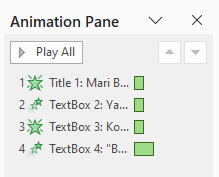
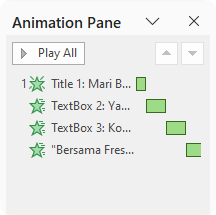
M

diff --git a/materi-powerpoint.html b/materi-powerpoint.html
@@ -3285,35 +3285,7 @@
                             </ul>
                           </li>
                         </ol>
-                        <!-- <div id="sesi4dasar" class="carousel Slide">
-                          <div class="carousel-inner">
-                            <div class="carousel-item active">
-                              <img src="assets/img/SmartBottle/Slide1.PNG" class="d-block w-100" alt="...">
-                            </div>
-                            <div class="carousel-item">
-                              <img src="assets/img/SmartBottle/Slide2.PNG" class="d-block w-100" alt="...">
-                            </div>
-                            <div class="carousel-item">
-                              <img src="assets/img/SmartBottle/Slide3.PNG" class="d-block w-100" alt="...">
-                            </div>
-                            <div class="carousel-item">
-                              <img src="assets/img/SmartBottle/Slide4.PNG" class="d-block w-100" alt="...">
-                            </div>
-                            <div class="carousel-item">
-                              <img src="assets/img/SmartBottle/Slide5.PNG" class="d-block w-100" alt="...">
-                            </div>
-                          </div>
-                          <button class="carousel-control-prev" type="button" data-bs-target="#sesi4dasar"
-                            data-bs-Slide="prev">
-                            <span class="carousel-control-prev-icon" aria-hidden="true"></span>
-                            <span class="visually-hidden">Previous</span>
-                          </button>
-                          <button class="carousel-control-next" type="button" data-bs-target="#sesi4dasar"
-                            data-bs-Slide="next">
-                            <span class="carousel-control-next-icon" aria-hidden="true"></span>
-                            <span class="visually-hidden">Next</span>
-                          </button>
-                        </div> -->
+                        
                         <div class="d-flex justify-content-between align-items-center mb-3">
                           <a class="btn btn-sm btn-outline-secondary"
                             style="--bs-btn-padding-y: .25rem; --bs-btn-padding-x: .5rem; --bs-btn-font-size: .75rem;"
@@ -3775,7 +3747,8 @@
                                       <li>Judul: <strong>Fade</strong>, <i class="bi bi-mouse2"></i> Start On Click</li>
                                       <li>Diagram: <strong>Wipe</strong>, <i class="bi bi-clock-history"></i>
                                         Start After Previous</li>
-                                      <li>Content: <strong>Wipe</strong> → <strong>Effect Options</strong> → <strong>Level One
+                                      <li>Content: <strong>Wipe</strong> → <strong>Effect Options</strong> →
+                                        <strong>Level One
                                           by One</strong>, <i class="bi bi-clock-history"></i>
                                         Start After Previous.
                                         <div class="my-3">
@@ -3792,62 +3765,6 @@
                                 </div><!-- /row -->
                                 <hr>
                               </li>
-
-
-                              <!-- <li>
-                                <strong>Slide 6 — Tim Kami</strong>
-                                <div class="row mt-2">
-                                  <div class="col-md-6">
-                                    <ul class="list-unstyled">
-                                      <li><strong>Layout:</strong> <strong>Title Only</strong></li>
-                                      <li>Judul : <strong>TIM KAMI</strong></li>
-                                      <li>Isi : <br>
-                                        <ul>
-                                          <li><strong>Insert</strong> → <strong>SmartArt</strong> →
-                                            <strong>Hierarchy</strong>
-                                            <div class="my-3">
-                                              <img src="assets/img/insert-smartart-hierarchy.png" alt=""
-                                                class="img-fluid shadow rounded">
-                                            </div>
-                                          </li>
-
-                                          <li><strong>Insert → <strong>Table</strong></strong>
-                                            <div class="my-2 mb-3">
-                                              <img src="assets/img/insert-table-tim-kami.png" alt=""
-                                                class="img-fluid shadow rounded">
-                                            </div>
-                                            <ul>
-                                              <li>CEO: <strong>Andi</strong></li>
-                                              <li>CTO: <strong>Budi</strong></li>
-                                              <li>Marketing: <strong>Sinta</strong></li>
-                                              <li>Finance: <strong>Rina</strong></li>
-                                            </ul>
-                                            <p>Isi data seperti contoh gambar Slide</p>
-                                          </li>
-                                          <li><strong>Animation</strong>:
-                                            <ul>
-                                              <li>Judul: <strong>Fade</strong>, <i class="bi bi-mouse2"></i> Start On Click</li>
-                                              <li>Diagram: <strong>Wipe</strong>, <i class="bi bi-clock-history"></i>
-                                                Start After Previous</li>
-                                              <li>Content: <strong>Wipe</strong> → <strong>Effect Options</strong> → <strong>Level One
-                                          by One</strong>, <i class="bi bi-clock-history"></i>
-                                        Start After Previous.</li>
-                                            </ul>
-                                            <div class="my-3">
-                                              <img src="assets/img/Slide6-animation-pane.png" alt=""
-                                                class="img-fluid shadow rounded">
-                                            </div>
-                                          </li>
-                                        </ul>
-                                      </li>
-                                  </div>
-                                  <div class="col-md-6">
-                                    <img src="assets/img/Business-Pitch-Deck-7-Slide/Slide6.PNG" alt=""
-                                      class="img-fluid shadow rounded">
-                                  </div>
-                                </div>
-                                <hr>
-                              </li> -->
 
                               <li>
                                 <strong>Slide 7 — Call to Action</strong>
@@ -3878,29 +3795,37 @@
                                             terpercaya."</li>
                                         </ul>
                                       </li>
-                                      <li><strong>Animation</strong>:
-                                        <ul>
-                                          <li>Judul: <strong>Fade</strong>, <i class="bi bi-clock-history"></i> Start
-                                            After Previous</li>
-                                          <li>TextBox: <strong>Zoom</strong>, <i class="bi bi-clock-history"></i> Start
-                                            After Previous</li>
-                                          <li>TextBox: <strong>Fade</strong>, <i class="bi bi-clock-history"></i> Start
-                                            After Previous</li>
-                                          <li>TextBox: <strong>Float In</strong>, <i class="bi bi-clock-history"></i>
-                                            Start After Previous</li>
-                                        </ul>
-                                        <div class="my-3">
-                                          <img src="assets/img/Slide7-animation-pane.png" alt=""
-                                            class="img-fluid shadow rounded">
-                                        </div>
-                                      </li>
                                     </ul>
                                   </div>
                                   <div class="col-md-6">
-                                    <img src="assets/img/Business-Pitch-Deck-7-Slide/Slide7.PNG" alt=""
-                                      class="img-fluid shadow rounded">
+                                    <div class="my-3">
+                                      <img src="assets/img/Business-Pitch-Deck-7-Slide/Slide7.PNG" alt=""
+                                        class="img-fluid shadow rounded">
+                                    </div>
                                   </div>
-                                </div>
+                                </div><!-- /row -->
+
+                                <div class="row">
+                                  <div class="col-md-6">
+                                    <strong>Animation</strong>:
+                                    <ul>
+                                      <li>Judul: <strong>Fade</strong>, <i class="bi bi-mouse2"></i> Start On Click
+                                      </li>
+                                      <li>TextBox: <strong>Zoom</strong>, <i class="bi bi-clock-history"></i> Start
+                                        After Previous</li>
+                                      <li>TextBox: <strong>Fade</strong>, <i class="bi bi-clock-history"></i> Start
+                                        After Previous</li>
+                                      <li>TextBox: <strong>Float In</strong>, <i class="bi bi-clock-history"></i>
+                                        Start After Previous</li>
+                                    </ul>
+                                  </div>
+                                  <div class="col-md-6">
+                                    <div class="my-3">
+                                      <img src="assets/img/Slide7-animation-pane.png" alt=""
+                                        class="img-fluid shadow rounded">
+                                    </div>
+                                  </div>
+                                </div><!-- /row -->
                                 <hr>
                               </li>
                             </ol>
